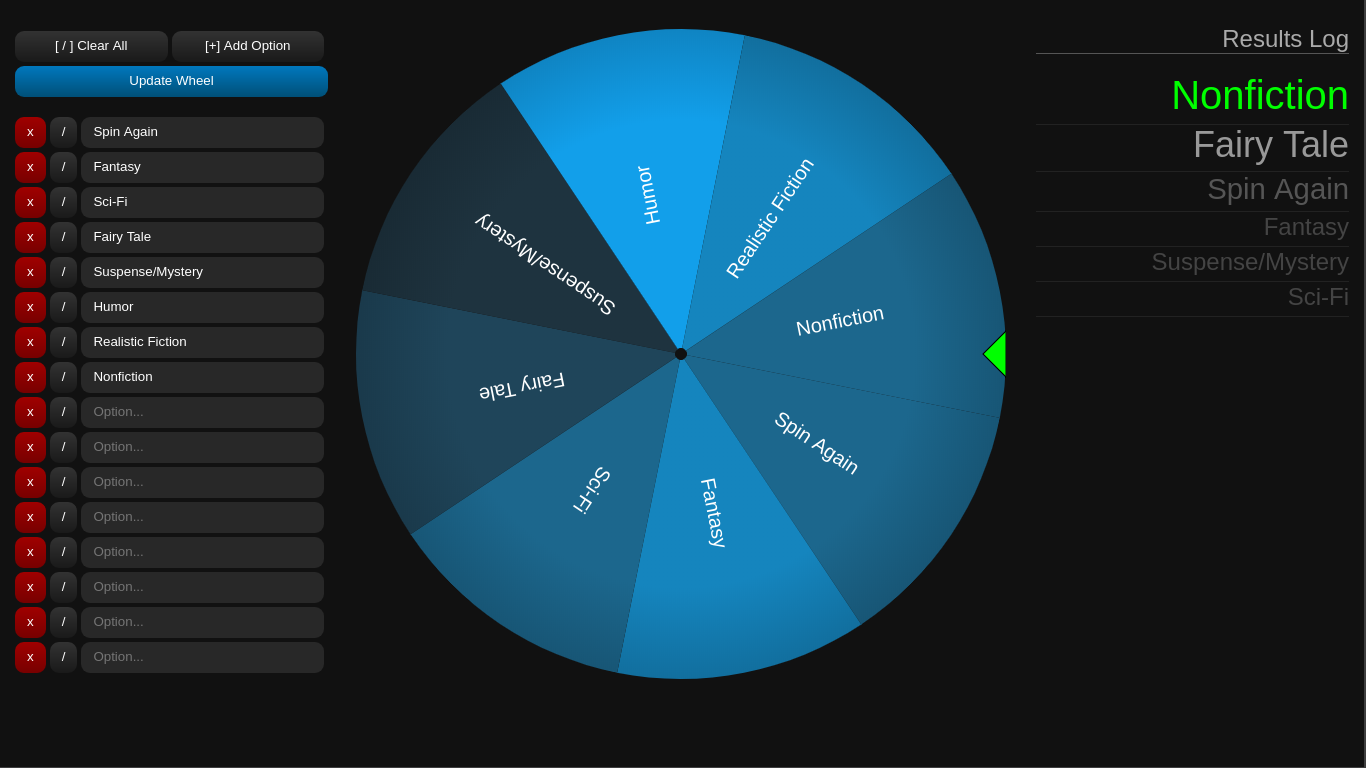
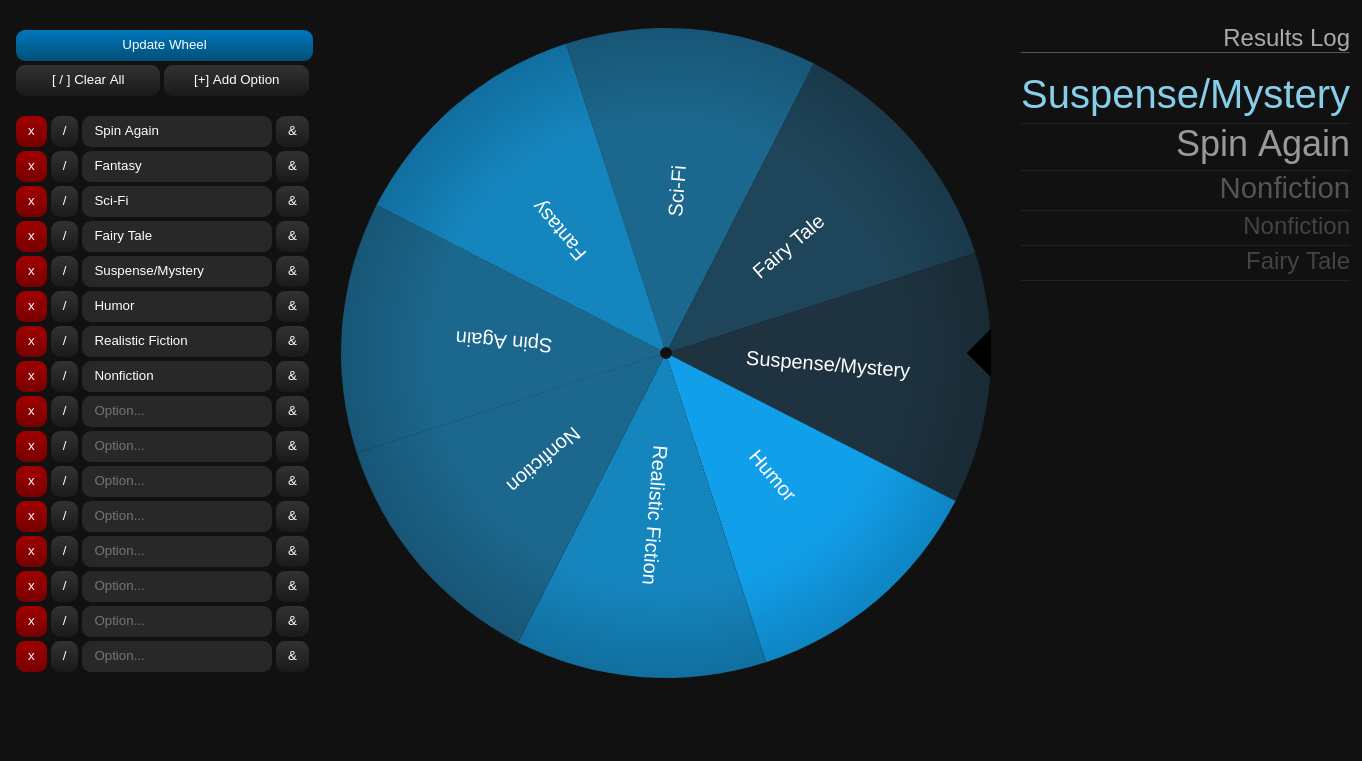
Update GH Pages build and preview image for latest changes

diff --git a/docs/src.111c5641.js b/docs/src.111c5641.js
@@ -1,0 +1,5 @@
+parcelRequire=function(e,r,n,t){var i="function"==typeof parcelRequire&&parcelRequire,o="function"==typeof require&&require;function u(n,t){if(!r[n]){if(!e[n]){var f="function"==typeof parcelRequire&&parcelRequire;if(!t&&f)return f(n,!0);if(i)return i(n,!0);if(o&&"string"==typeof n)return o(n);var c=new Error("Cannot find module '"+n+"'");throw c.code="MODULE_NOT_FOUND",c}p.resolve=function(r){return e[n][1][r]||r};var l=r[n]=new u.Module(n);e[n][0].call(l.exports,p,l,l.exports,this)}return r[n].exports;function p(e){return u(p.resolve(e))}}u.isParcelRequire=!0,u.Module=function(e){this.id=e,this.bundle=u,this.exports={}},u.modules=e,u.cache=r,u.parent=i,u.register=function(r,n){e[r]=[function(e,r){r.exports=n},{}]};for(var f=0;f<n.length;f++)u(n[f]);if(n.length){var c=u(n[n.length-1]);"object"==typeof exports&&"undefined"!=typeof module?module.exports=c:"function"==typeof define&&define.amd?define(function(){return c}):t&&(this[t]=c)}return u}({"FM3j":[function(require,module,exports) {
+"use strict";Object.defineProperty(exports,"__esModule",{value:!0}),exports.setLabels=A;var e=require("./index"),t=document.getElementById("spinner_wheel");t.addEventListener("click",C);var l=t.getContext("2d");l.font="20px Arial",l.textBaseline="middle",l.textAlign="center",l.lineWidth=1;var a=[["#b5d801","#87b91b","#6c921e","#4a5f1c","#394719"],["#129fea","#1585be","#1c678d","#1f455a","#1e333f"],["#6712eb","#5b23c3","#4e2a95","#3e2c62","#352b47"],["#ea9612","#c48122","#97682a","#634b2e","#4b3e2f"]],n=a[Math.floor(Math.random()*a.length)],r="white",i="black",o="transparent",f=2*Math.PI,c=t.width,d=c/2,h=d,s=d,u=d,b=6,g=.991,v=23,M=.4,m=.65,x=5e-4,P=function(e){return 180*e/Math.PI},p=function(e){return e*Math.PI/180},y=[],S=0,T=0,I=0,R=0,k=!1,w=!1;function A(e){if(!k){if(y=e,null==e||0===e.length)return l.clearRect(0,0,c,c),l.translate(d/2,d),l.fillStyle="#ffffff",l.fillText("No items added",u/2,0),void l.translate(-d/2,-d);I=1===y.length?Math.PI:0,S=f/y.length,T=S/2,q()}}function C(){k||null!=y&&0!==y.length&&(I=0,R=Math.random()*m+M,k=!0,_())}function _(){if(k){if((I+=R*=g)>=f&&(I=0),w=I%S<6*R,R<x){k=!1;var t=Math.floor((360-P(I)%360)/P(S));return(0,e.logResult)(y[t]),void q()}q(),requestAnimationFrame(_)}}function q(){l.clearRect(0,0,c,c);for(var e=0;e<y.length;e++){var t=I+S*e;l.beginPath(),l.arc(u,u,u,t,t+S,!1),l.arc(u,u,b,t+S,t,!0);var a=l.createRadialGradient(d,d,0,d,d,2.4*u);a.addColorStop(1,i),a.addColorStop(.3,B(e)),l.fillStyle=a,l.fill(),l.closePath(),l.beginPath(),l.moveTo(c-v,d),l.lineTo(c,d-v),l.lineTo(c,d+v),l.lineTo(c-v,d),l.fillStyle=k?w?r:o:i,l.fill(),l.stroke(),l.closePath(),l.translate(d,d),l.rotate(t+T),l.fillStyle=r,l.fillText(y[e],u/2,0,u),l.rotate(-(t+T)),l.translate(-d,-d)}}function B(e){return 0===e&&(e=Math.floor(n.length/2)),n[e%n.length]}
+},{"./index":"Focm"}],"Focm":[function(require,module,exports) {
+"use strict";Object.defineProperty(exports,"__esModule",{value:!0}),exports.clearResults=p,exports.logResult=m;var e=require("./wheel.js");function t(e){if(Array.isArray(e)){for(var t=0,n=Array(e.length);t<e.length;t++)n[t]=e[t];return n}return Array.from(e)}var n=function(e){return(arguments.length>1&&void 0!==arguments[1]?arguments[1]:document).getElementById(e)},r=function(e){return(arguments.length>1&&void 0!==arguments[1]?arguments[1]:document).getElementsByClassName(e)},o=function(e){return(arguments.length>1&&void 0!==arguments[1]?arguments[1]:document).querySelector(e)};function a(e){var t=document.importNode(n("template_option").content,!0),r=o(".wo_input",t);return r.value=e||"",r.addEventListener("blur",s),o(".wo_remove",t).addEventListener("click",c),o(".wo_clear",t).addEventListener("click",l),o(".wo_dupe",t).addEventListener("click",i),t}function u(e,t){var r=a(t);n("options").appendChild(r)}function i(e){var t=a(o(".wo_input",e.target.parentNode).value);n("options").insertBefore(t,e.target.parentNode),s()}function l(e){e.target.parentNode.getElementsByClassName("wo_input")[0].value="",s()}function c(e){var t=e.target.parentNode;t.parentNode.removeChild(t),s()}function d(){Array.from(r("wo_input")).forEach(function(e){e.value=""}),s()}function s(t){t&&t.preventDefault();var n=Array.from(r("wo_input")).reduce(function(e,t){return t&&t.value&&""!=t.value&&e.push(t.value),e},[]);(0,e.setLabels)(n)}n("resetBtn").addEventListener("click",d),n("addBtn").addEventListener("click",u),n("wheelForm").addEventListener("submit",s),d();var v=["Spin Again"];(0,e.setLabels)(v);var f=new Array(15).fill("");function p(){Array.from(r("resultsItem")).forEach(function(e){return e.parentNode.removeChild(e)})}function m(e){var t=document.createElement("li");t.appendChild(document.createTextNode(e)),t.className="resultsItem",n("resultsList").prepend(t)}[].concat(v,t(f)).forEach(function(e){return u(null,e)}),p();
+},{"./wheel.js":"FM3j"}]},{},["Focm"], null)

diff --git a/docs/index.html b/docs/index.html
@@ -1,1 +1,1 @@
-<!DOCTYPE html><html lang="en" dir="ltr"> <head> <meta charset="utf-8"> <title>Spinner</title> <link rel="stylesheet" href="https://geordiep.github.io/spinner/src.44bdeac4.css"> <script defer type="text/javascript" src="https://geordiep.github.io/spinner/src.554379c4.js"></script> </head> <template class="template" id="template_option"> <div class="wheelOption"> <button type="button" class="wheelOptionInputRemove small red">x</button> <button type="button" class="wheelOptionInputClear small">/</button> <input type="text" class="wheelOptionInput" placeholder="Option..." data-formkey="option" tabindex="1"> </div> </template> <body> <div id="config"> <form id="wheelForm" class="fullWidth"> <fieldset id="controls" class="stretch"> <div class="stretch"> <button type="button" id="resetBtn">[ / ] Clear All</button> <button type="button" id="addBtn">[+] Add Option</button> </div> <button type="submit" id="saveBtn" class="blue">Update Wheel</button> </fieldset> <br> <fieldset id="options"></fieldset> </form> </div> <div id="wheel"> <canvas id="spinner_wheel" width="650" height="650"></canvas> </div> <div id="results" class="fullWidth"> <div id="resultsContainer" class="fullWidth"> <h1>Results Log</h1> <ul id="resultsList"></ul> </div> </div> </body> </html>
+<!DOCTYPE html><html lang="en" dir="ltr"> <head> <meta charset="utf-8"> <title>Spinner</title> <link rel="stylesheet" href="https://geordiep.github.io/spinner/src.e4953a0d.css"> <script defer type="text/javascript" src="https://geordiep.github.io/spinner/src.111c5641.js"></script> </head> <template class="template" id="template_option"> <div class="wheelOption"> <button type="button" title="Remove Field" class="wo_remove small red">x</button> <button type="button" title="Clear Field" class="wo_clear small">/</button> <input type="text" class="wo_input" placeholder="Option..." data-formkey="option" tabindex="1"> <button type="button" title="Duplicate Field" class="wo_dupe small">&amp;</button> </div> </template> <body> <div id="config"> <form id="wheelForm" class="fullWidth"> <fieldset id="controls" class="stretch"> <button type="submit" title="Update wheel with the listed fields" id="saveBtn" class="blue">Update Wheel</button> <div class="stretch"> <button type="button" title="Clear all option fields" id="resetBtn">[ / ] Clear All</button> <button type="button" title="Add an empty new option field" id="addBtn">[+] Add Option</button> </div> </fieldset> <br> <fieldset id="options"></fieldset> </form> </div> <div id="wheel"> <canvas id="spinner_wheel" width="650" height="650"></canvas> </div> <div id="results" class="fullWidth"> <div id="resultsContainer" class="fullWidth"> <h1>Results Log</h1> <ul id="resultsList"></ul> </div> </div> </body> </html>

diff --git a/docs/src.e4953a0d.css b/docs/src.e4953a0d.css
@@ -1,0 +1,1 @@
+a,abbr,acronym,address,applet,article,aside,audio,b,big,blockquote,body,canvas,caption,center,cite,code,dd,del,details,dfn,div,dl,dt,em,embed,fieldset,figcaption,figure,footer,form,h1,h2,h3,h4,h5,h6,header,hgroup,html,i,iframe,img,ins,kbd,label,legend,li,mark,menu,nav,object,ol,output,p,pre,q,ruby,s,samp,section,small,span,strike,strong,sub,summary,sup,table,tbody,td,tfoot,th,thead,time,tr,tt,u,ul,var,video{border:0;font:inherit;font-size:100%;margin:0;padding:0;vertical-align:baseline}article,aside,details,figcaption,figure,footer,header,hgroup,menu,nav,section{display:block}body{line-height:1}ol,ul{list-style:none}blockquote,q{quotes:none}blockquote:after,blockquote:before,q:after,q:before{content:"";content:none}table{border-collapse:collapse;border-spacing:0}*{box-sizing:border-box;color:#fff}html{font-family:sans-serif}body,html{height:100%}body{background:#111;display:grid;grid-template-columns:1fr auto 1fr;width:100%}h1{border-bottom:1px solid #555;color:#aaa;font-size:24px;margin-bottom:20px}input{background:#282828;width:100%}button,input{border:none;border-radius:9px;color:#fff;margin:2px;padding:8px 12px}button{background:linear-gradient(180deg,#333,#1a1a1a)}button:hover{background:linear-gradient(180deg,#555,#3a3a3a)}button:active{background:linear-gradient(180deg,#111,#090909)}button.red{background:linear-gradient(180deg,#a00000,#780000)}button.red:hover{background:linear-gradient(180deg,#c00000,#980000)}button.red:active{background:linear-gradient(180deg,#580000,maroon)}button.blue{background:linear-gradient(180deg,#0078be,#005078)}button.blue:hover{background:linear-gradient(180deg,#08e,#006098)}button.blue:active{background:linear-gradient(180deg,#003058,#00589e)}.stretch{display:flex}.fullWidth,.stretch button{width:100%}#config,#results,#wheel{align-items:flex-start;display:flex;justify-content:center;overflow:auto;padding:30px 15px}#resultsContainer{text-align:right}.wheelOption{display:flex}#spinner_wheel,button{cursor:pointer}#resultsList li{border-bottom:1px solid #222;color:#444;font-size:18pt;padding:5px 0}#resultsList li:first-child{color:#87ceeb;font-size:30pt}#resultsList li:nth-child(2){color:#999;font-size:27pt}#resultsList li:nth-child(3){color:#555;font-size:22pt}
